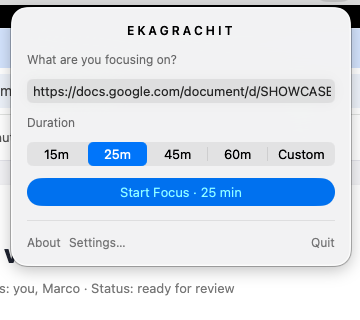
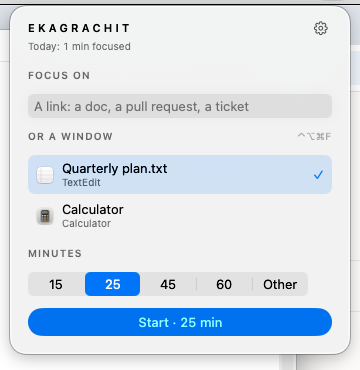
Version 0.1.3: changelog, and the redesigned menu on the site
Claude-Session: https://claude.ai/code/session_01BqfN72BuKvVXwargRjb2Uc

diff --git a/docs/index.html b/docs/index.html
@@ -170,7 +170,7 @@
           <div class="step">
             <h3>Choose one thing and a duration</h3>
             <p>Click ◎ in the menu bar. What you were just working on is already chosen, whether that's the Chrome tab or the window in front. Pick 15, 25, 45 or 60 minutes, or your own. Or skip the menu: <kbd>⌃⌥⌘F</kbd>.</p>
-            <img src="images/menu.png" alt="The Ekagrachit menu: a link field, a list of open windows, duration choices, and Start Focus." loading="lazy">
+            <img src="images/menu.png" alt="The Ekagrachit menu: a link field, open windows with the document you were in already chosen, minutes, and Start." loading="lazy">
           </div>
           <div class="step">
             <h3>Work. Everything else is gone.</h3>

diff --git a/apps/macos/Sources/EkagrachitHost/main.swift b/apps/macos/Sources/EkagrachitHost/main.swift
@@ -20,7 +20,7 @@ import Darwin
 import Glibc
 #endif
 
-let hostVersion = "0.1.2"
+let hostVersion = "0.1.3"
 signal(SIGPIPE, SIG_IGN)
 
 func log(_ s: String) {

diff --git a/CHANGELOG.md b/CHANGELOG.md
@@ -1,5 +1,20 @@
 # Changelog
 
+## 0.1.3
+
+- **Never freezes.** A busy or hung app (or a busy Chrome showing a heavy
+  Google Doc) could make Ekagrachit stop responding: it waited on
+  Accessibility calls into other apps with the system's ~6 s timeout. Calls
+  are now capped at 0.3 s, raising the focus window happens off the main
+  thread, and Chrome is never queried for window titles. A test freezes the
+  focused app outright; Ekagrachit keeps answering in ~30 ms.
+- **The Chrome toolbar button** opens the menu with the tab you clicked in,
+  and Escape closes it.
+- **◎ always opens on the first click** (after starting a session it could
+  take two).
+- A new session clears any leftover message; "1 minute", not "1 minutes";
+  less work while idle; a stalled browser connection is dropped after 2 s.
+
 ## 0.1.2
 
 - **Google Docs works.** Real Google document ids made Chrome reject the

diff --git a/README.md b/README.md
@@ -65,7 +65,7 @@ the one-pointed mind, "a lamp sheltered from the wind." [What the name means →
 
 | Start | Saved for later | End early |
 |---|---|---|
-| ![Menu with the current tab prefilled](docs/images/menu.png) | ![Links saved during the session](docs/images/saved-for-later.png) | ![Hold to end session](docs/images/end-early.png) |
+| ![The menu, with the document you were working in already chosen](docs/images/menu.png) | ![Links saved during the session](docs/images/saved-for-later.png) | ![Hold to end session](docs/images/end-early.png) |
 
 ## Install
 
